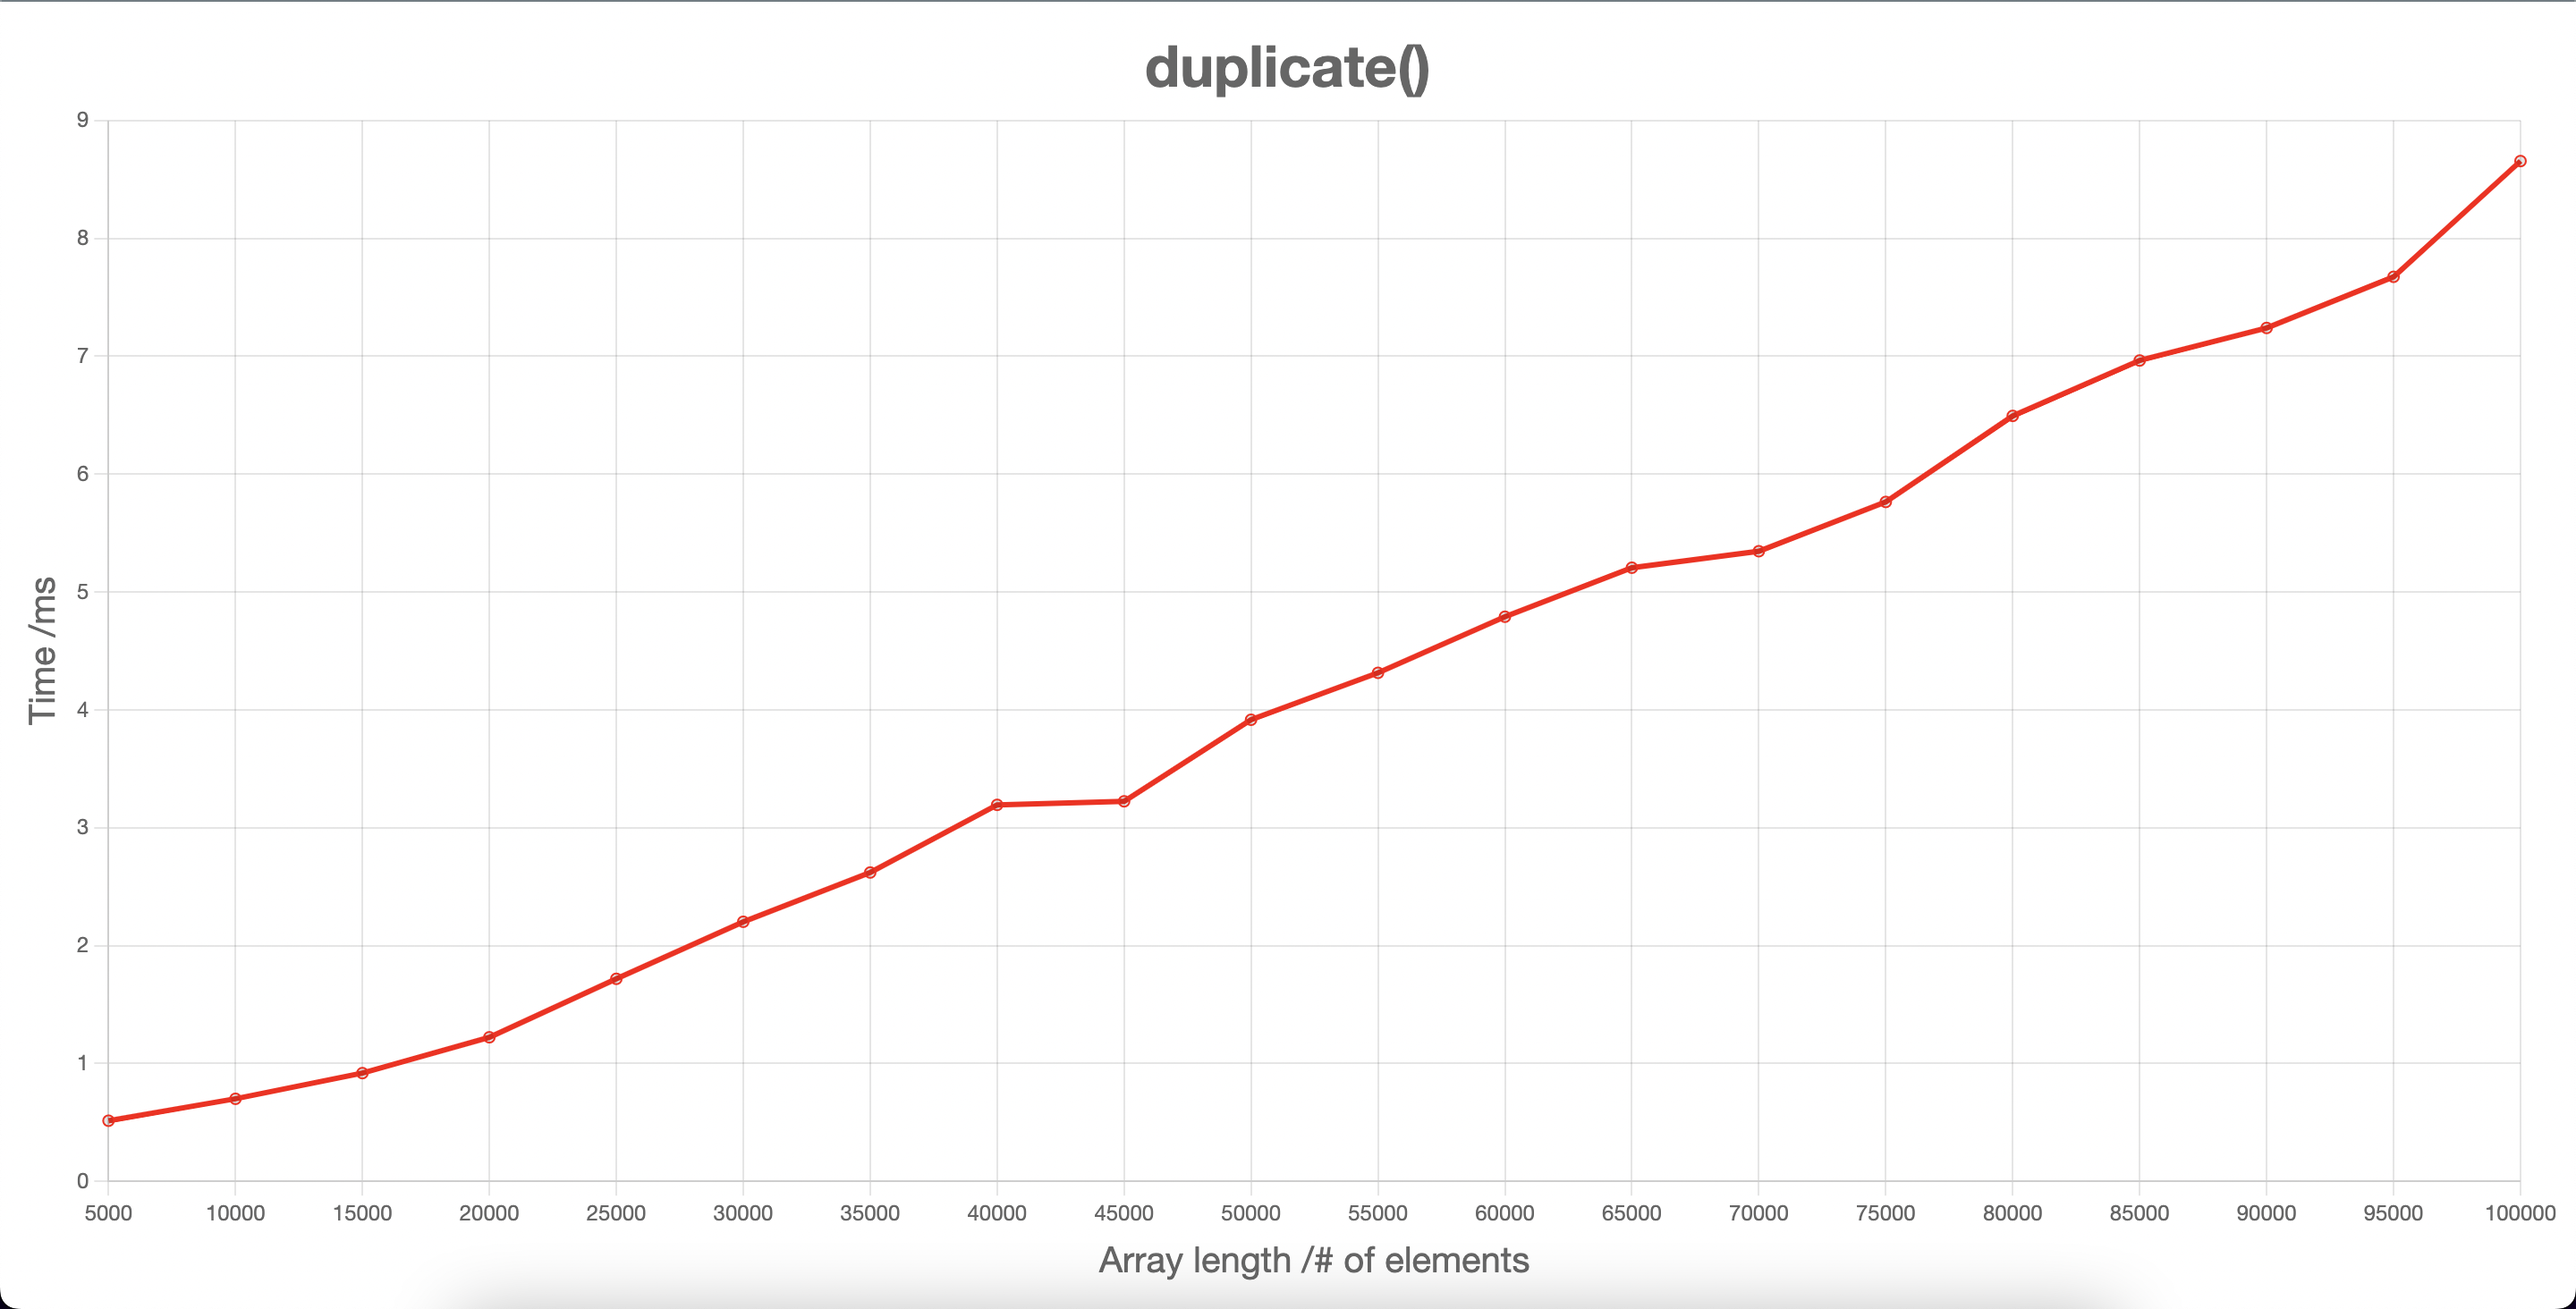
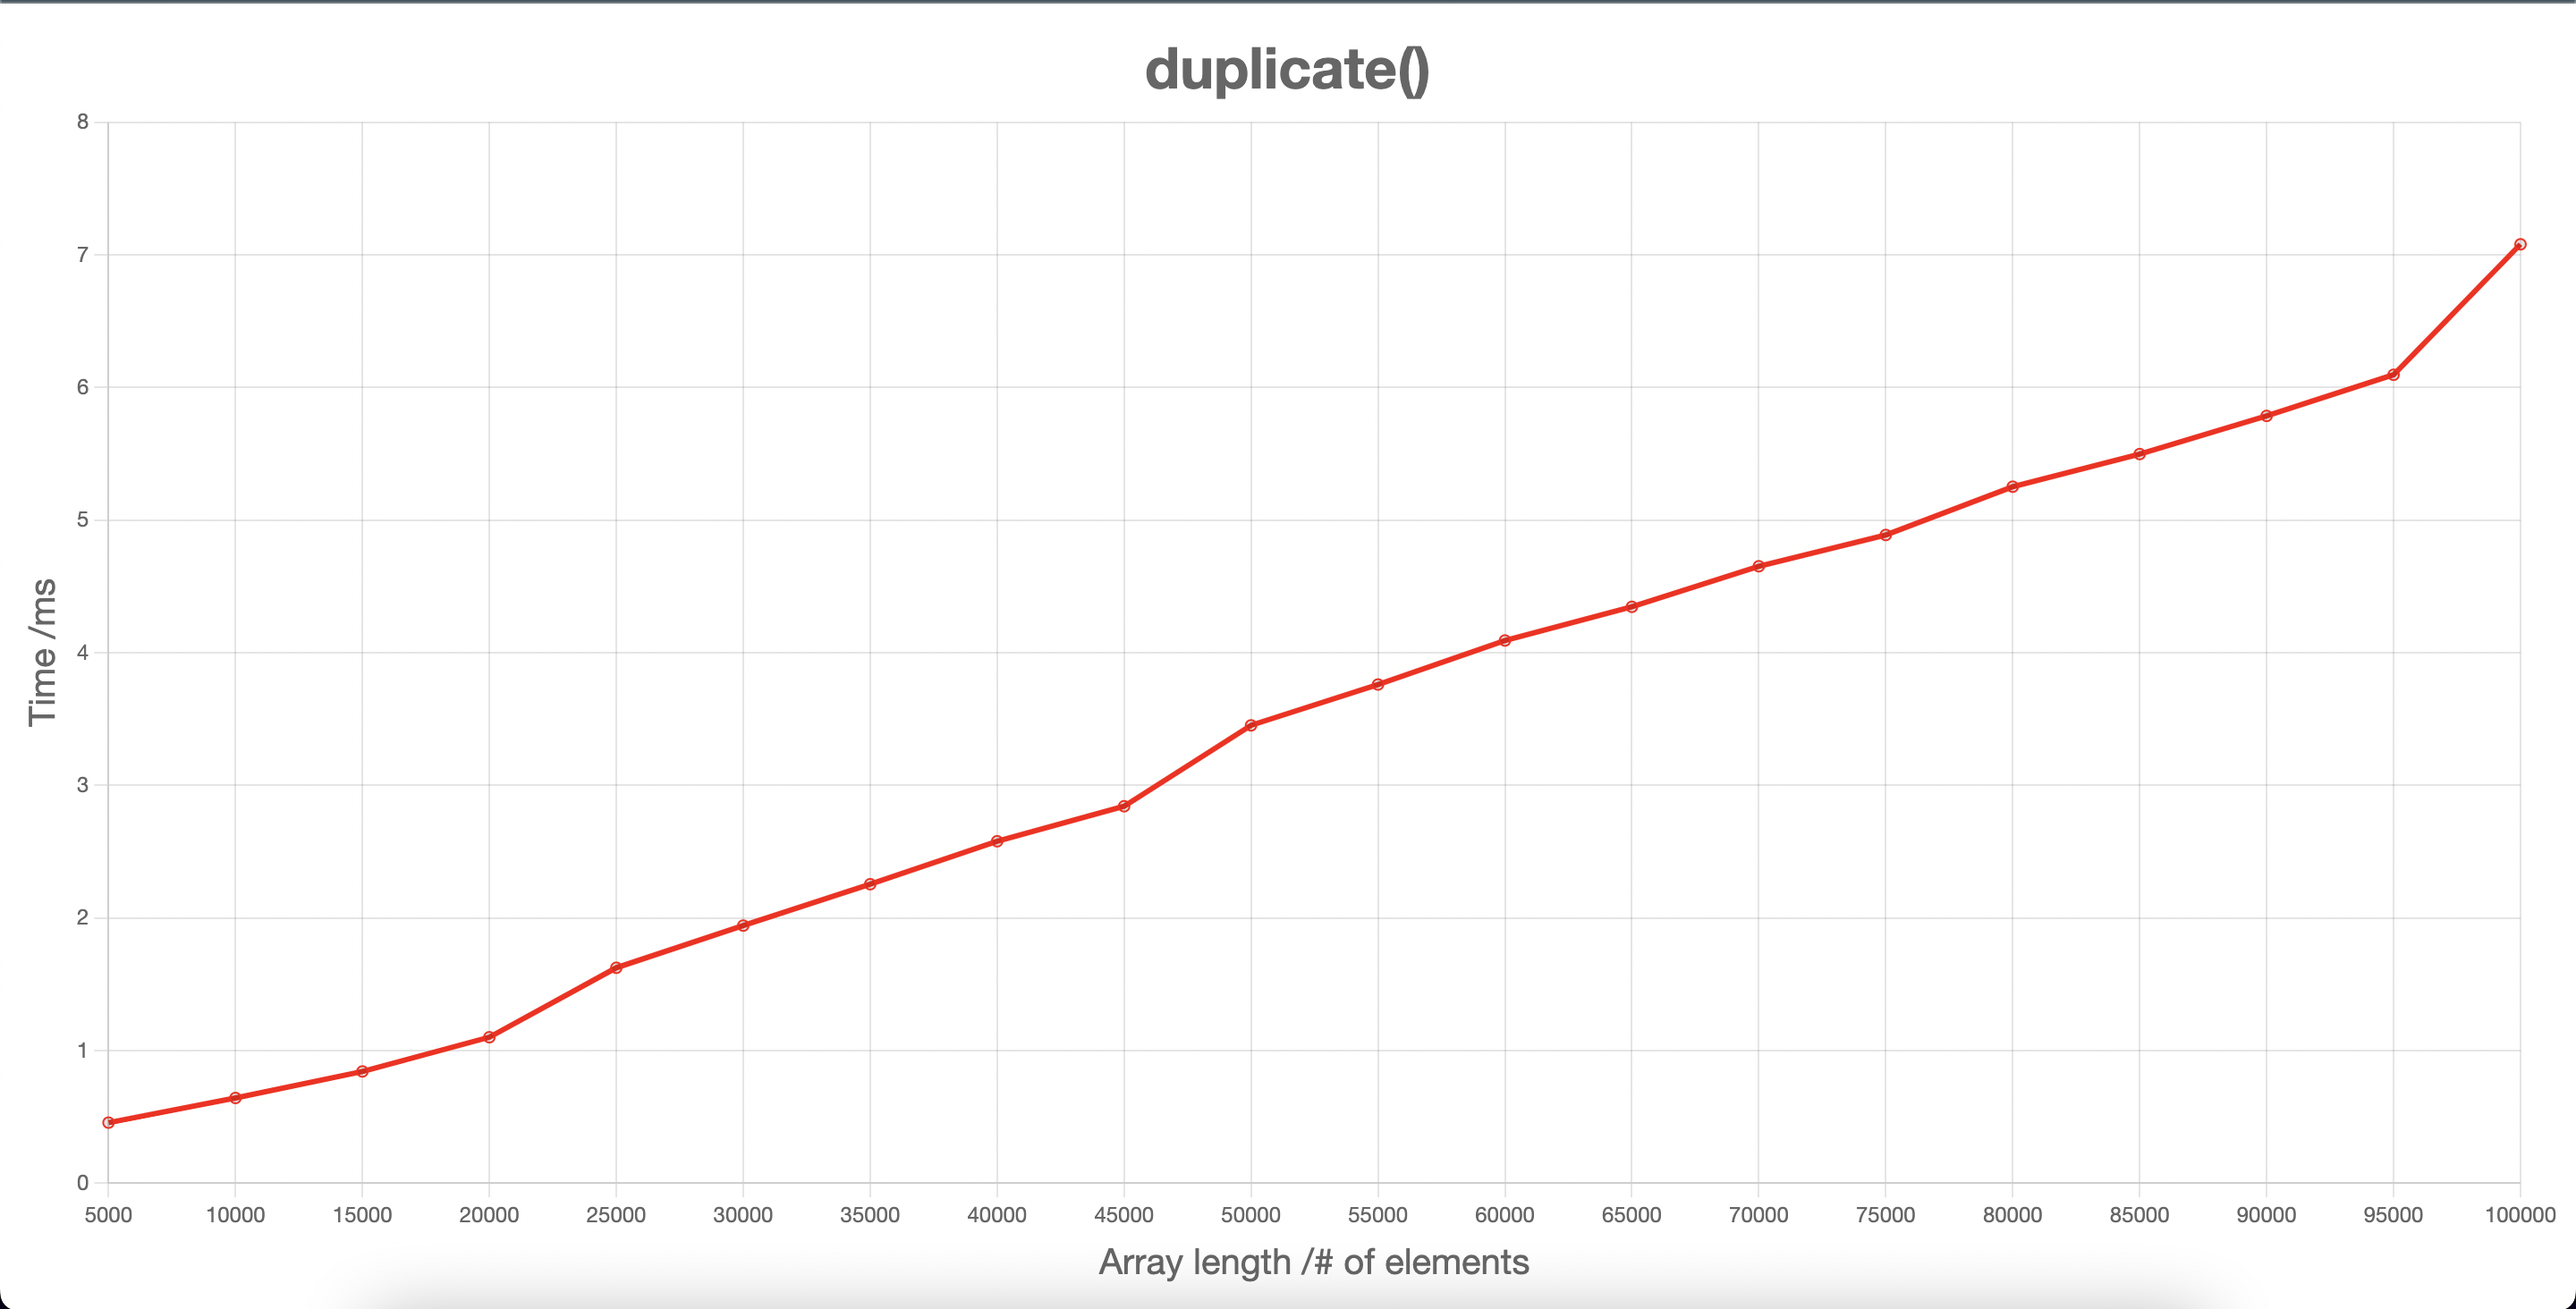
Update duplicate()
Modify duplicate() to iterate through the counts object without using
Object.entries(). This could lower the time complexity of the overall
function.

Also, change the tests as the intention of this function is to find
repeating strings in an array.

diff --git a/custom-algorithms/duplicate/duplicate.test.js b/custom-algorithms/duplicate/duplicate.test.js
@@ -3,19 +3,45 @@ const duplicate = require("./duplicate");
 
 describe(duplicate, () => {
   it("returns an empty list for an array with no repeating elements", () => {
-    expect(duplicate([1, 2, 3, 4])).toEqual([]);
+    expect(duplicate(["hello", "there", "how", "are", "you"])).toEqual([]);
   });
 
-  it("returns an array containing the number 3 for an array where 3 repeats", () => {
-    expect(duplicate([1, 3, 5, 3])).toEqual(["3"]);
+  it("returns an array containing the string 'there' for an array where 'there' repeats", () => {
+    expect(duplicate(["hello", "there", "and", "there"])).toEqual(["there"]);
   });
 
   it("returns an array of 2 repeating elements in the array", () => {
-    expect(duplicate([1, 2, 3, 1, 4, 4, 6])).toEqual(["1", "4"]);
+    expect(
+      duplicate(["hello", "there", "how", "hello", "are", "are", "you"])
+    ).toEqual(["hello", "are"]);
   });
 
   it("returns the array of repeating elements for a long array", () => {
-    const arr = [1, 2, 55, 4, 2, 4, 34, 55, 6, 7, 7, 8, 8, 9, 1, 55];
-    expect(duplicate(arr)).toEqual(["1", "2", "4", "7", "8", "55"]);
+    const arr = [
+      "hello",
+      "there",
+      "today",
+      "are",
+      "there",
+      "are",
+      "now",
+      "today",
+      "you",
+      "room",
+      "room",
+      "night",
+      "night",
+      "floor",
+      "hello",
+      "today",
+    ];
+    expect(duplicate(arr)).toEqual([
+      "hello",
+      "there",
+      "today",
+      "are",
+      "room",
+      "night",
+    ]);
   });
 });

diff --git a/custom-algorithms/duplicate/duplicate.js b/custom-algorithms/duplicate/duplicate.js
@@ -18,8 +18,8 @@ const addToCounts = (array, counts) => {
 };
 
 const addToRepeats = (counts, repeats) => {
-  for (const [key, value] of Object.entries(counts)) {
-    if (value > 1) repeats.push(parseInt(key));
+  for (const key in counts) {
+    if (counts[key] > 1) repeats.push(key);
   }
 };
 
